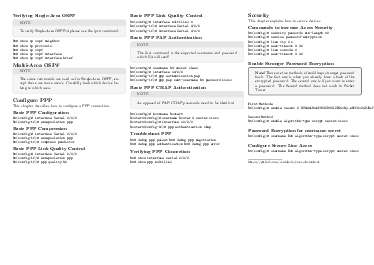
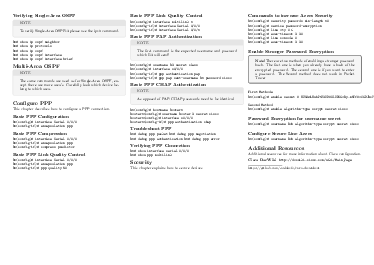
Added Additional Resources section

Changed region(s): [[0.0294, 0.0302, 1.0, 0.6642], [0.5, 0.6038, 0.5294, 0.634]]

diff --git a/cheatsheet/resources.tex b/cheatsheet/resources.tex
@@ -1,0 +1,5 @@
+\section{Additional Resources}
+Additional resources for more information about Cisco configuration.
+\begin{description}
+  \item [Cisco DocWiki] \url{http://docwiki.cisco.com/wiki/Main_Page}
+\end{description}

diff --git a/cheatsheet.tex b/cheatsheet.tex
@@ -111,6 +111,9 @@
 % Security
 \input{cheatsheet/security.tex}
 
+% Additional Resources
+\input{cheatsheet/resources.tex}
+
 
 \rule{0.3\linewidth}{0.25pt}
 \scriptsize
